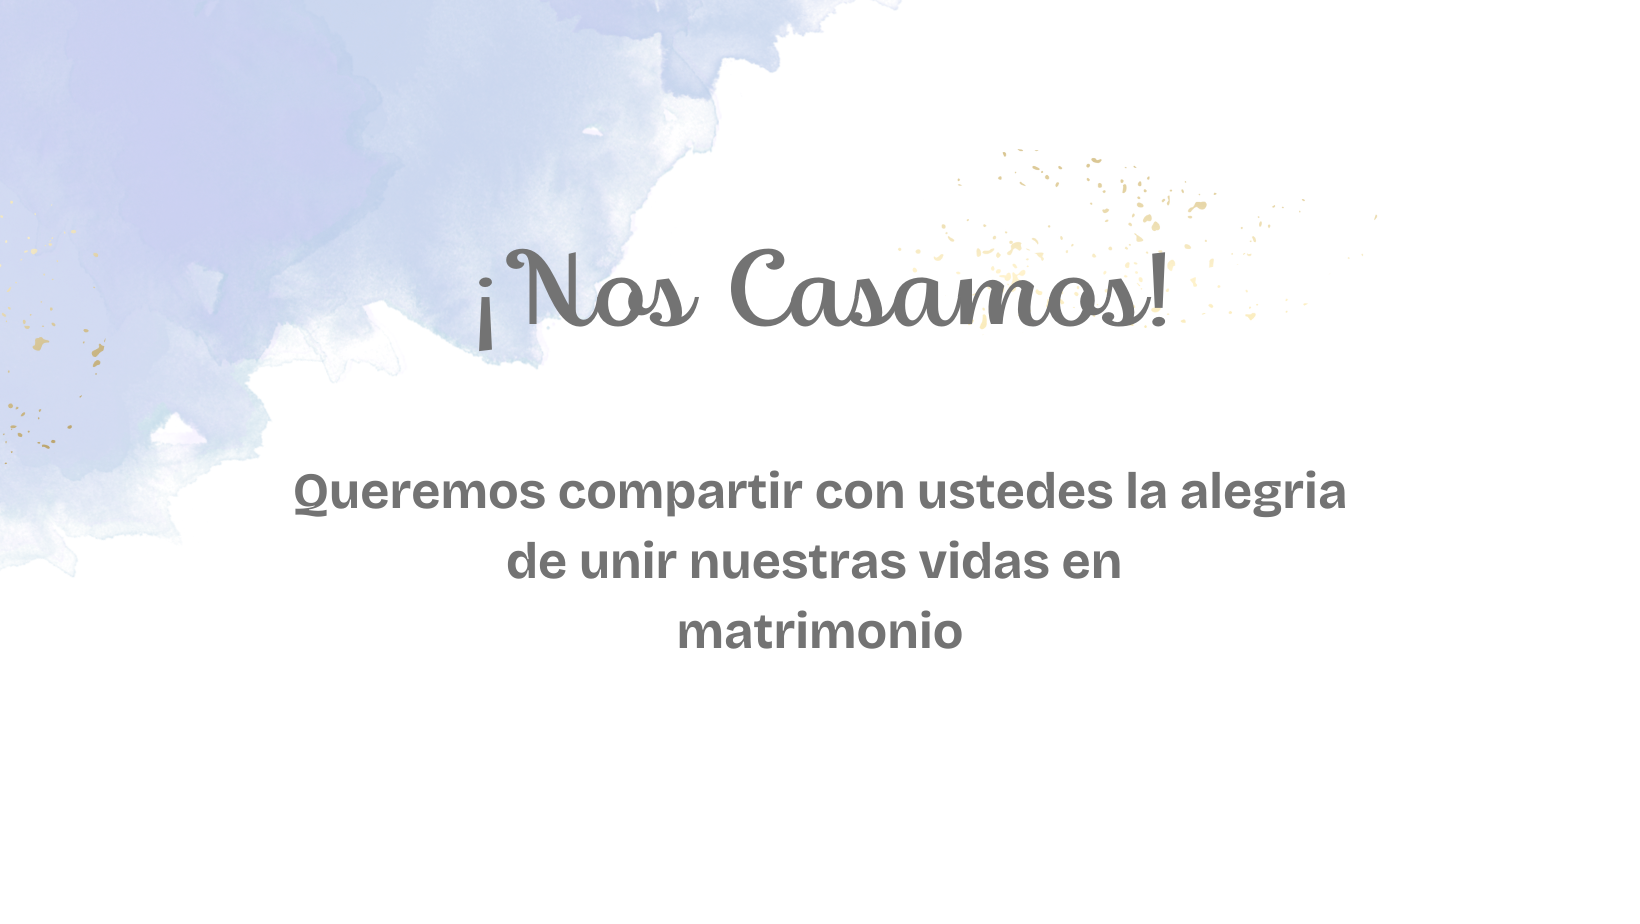
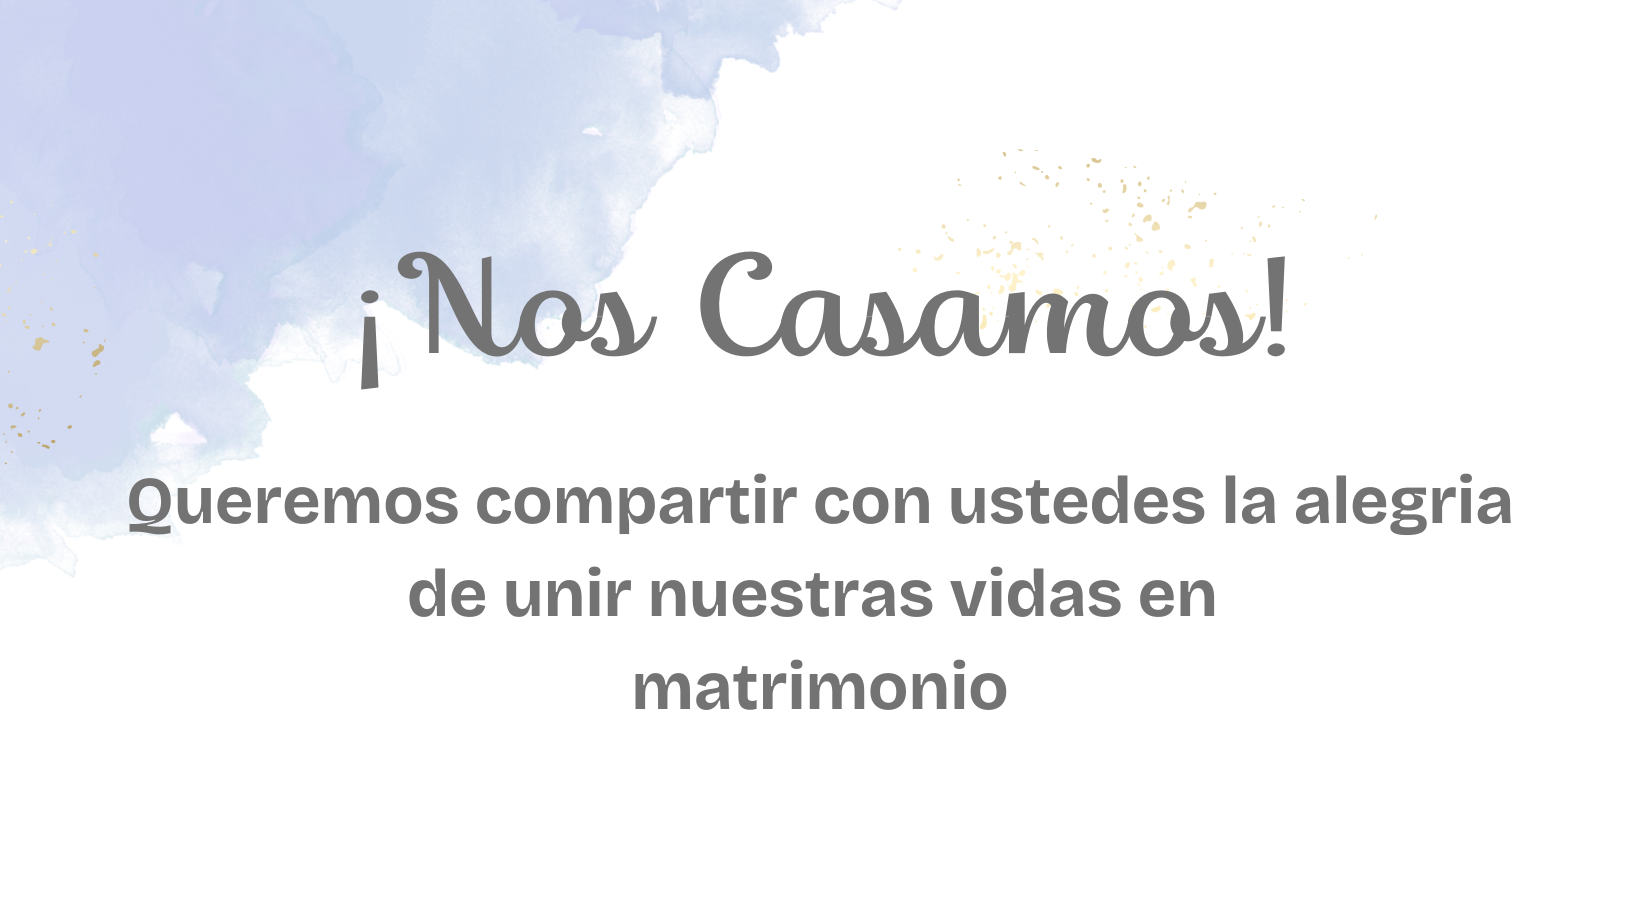
cambios tamaño de letra

Changed region(s): [[0.0622, 0.5152, 0.9329, 0.7879], [0.2177, 0.2727, 0.8085, 0.4242]]

diff --git a/style.css b/style.css
@@ -32,6 +32,8 @@ p{
     
 }
 
+
+
 h4{
     font-family: 'Comfortaa', sans-serif;
     text-align: center;
@@ -189,7 +191,8 @@ img{
     border-radius: 5px;
     border: solid #EFEFED;
     font-family: 'Comfortaa', sans-serif;
-    font-size: 16 px;
+    font-size: 20 px;
+    color: #22333b;
 }
 
 #botonCopiar2{
@@ -197,7 +200,8 @@ img{
     border-radius: 5px;
     border: solid #EFEFED;
     font-family: 'Comfortaa', sans-serif;
-    font-size: 16 px;
+    font-size: 20 px;
+    color: #22333b;
 }
 /*Tabla cuenta regresiva*/
 td {
